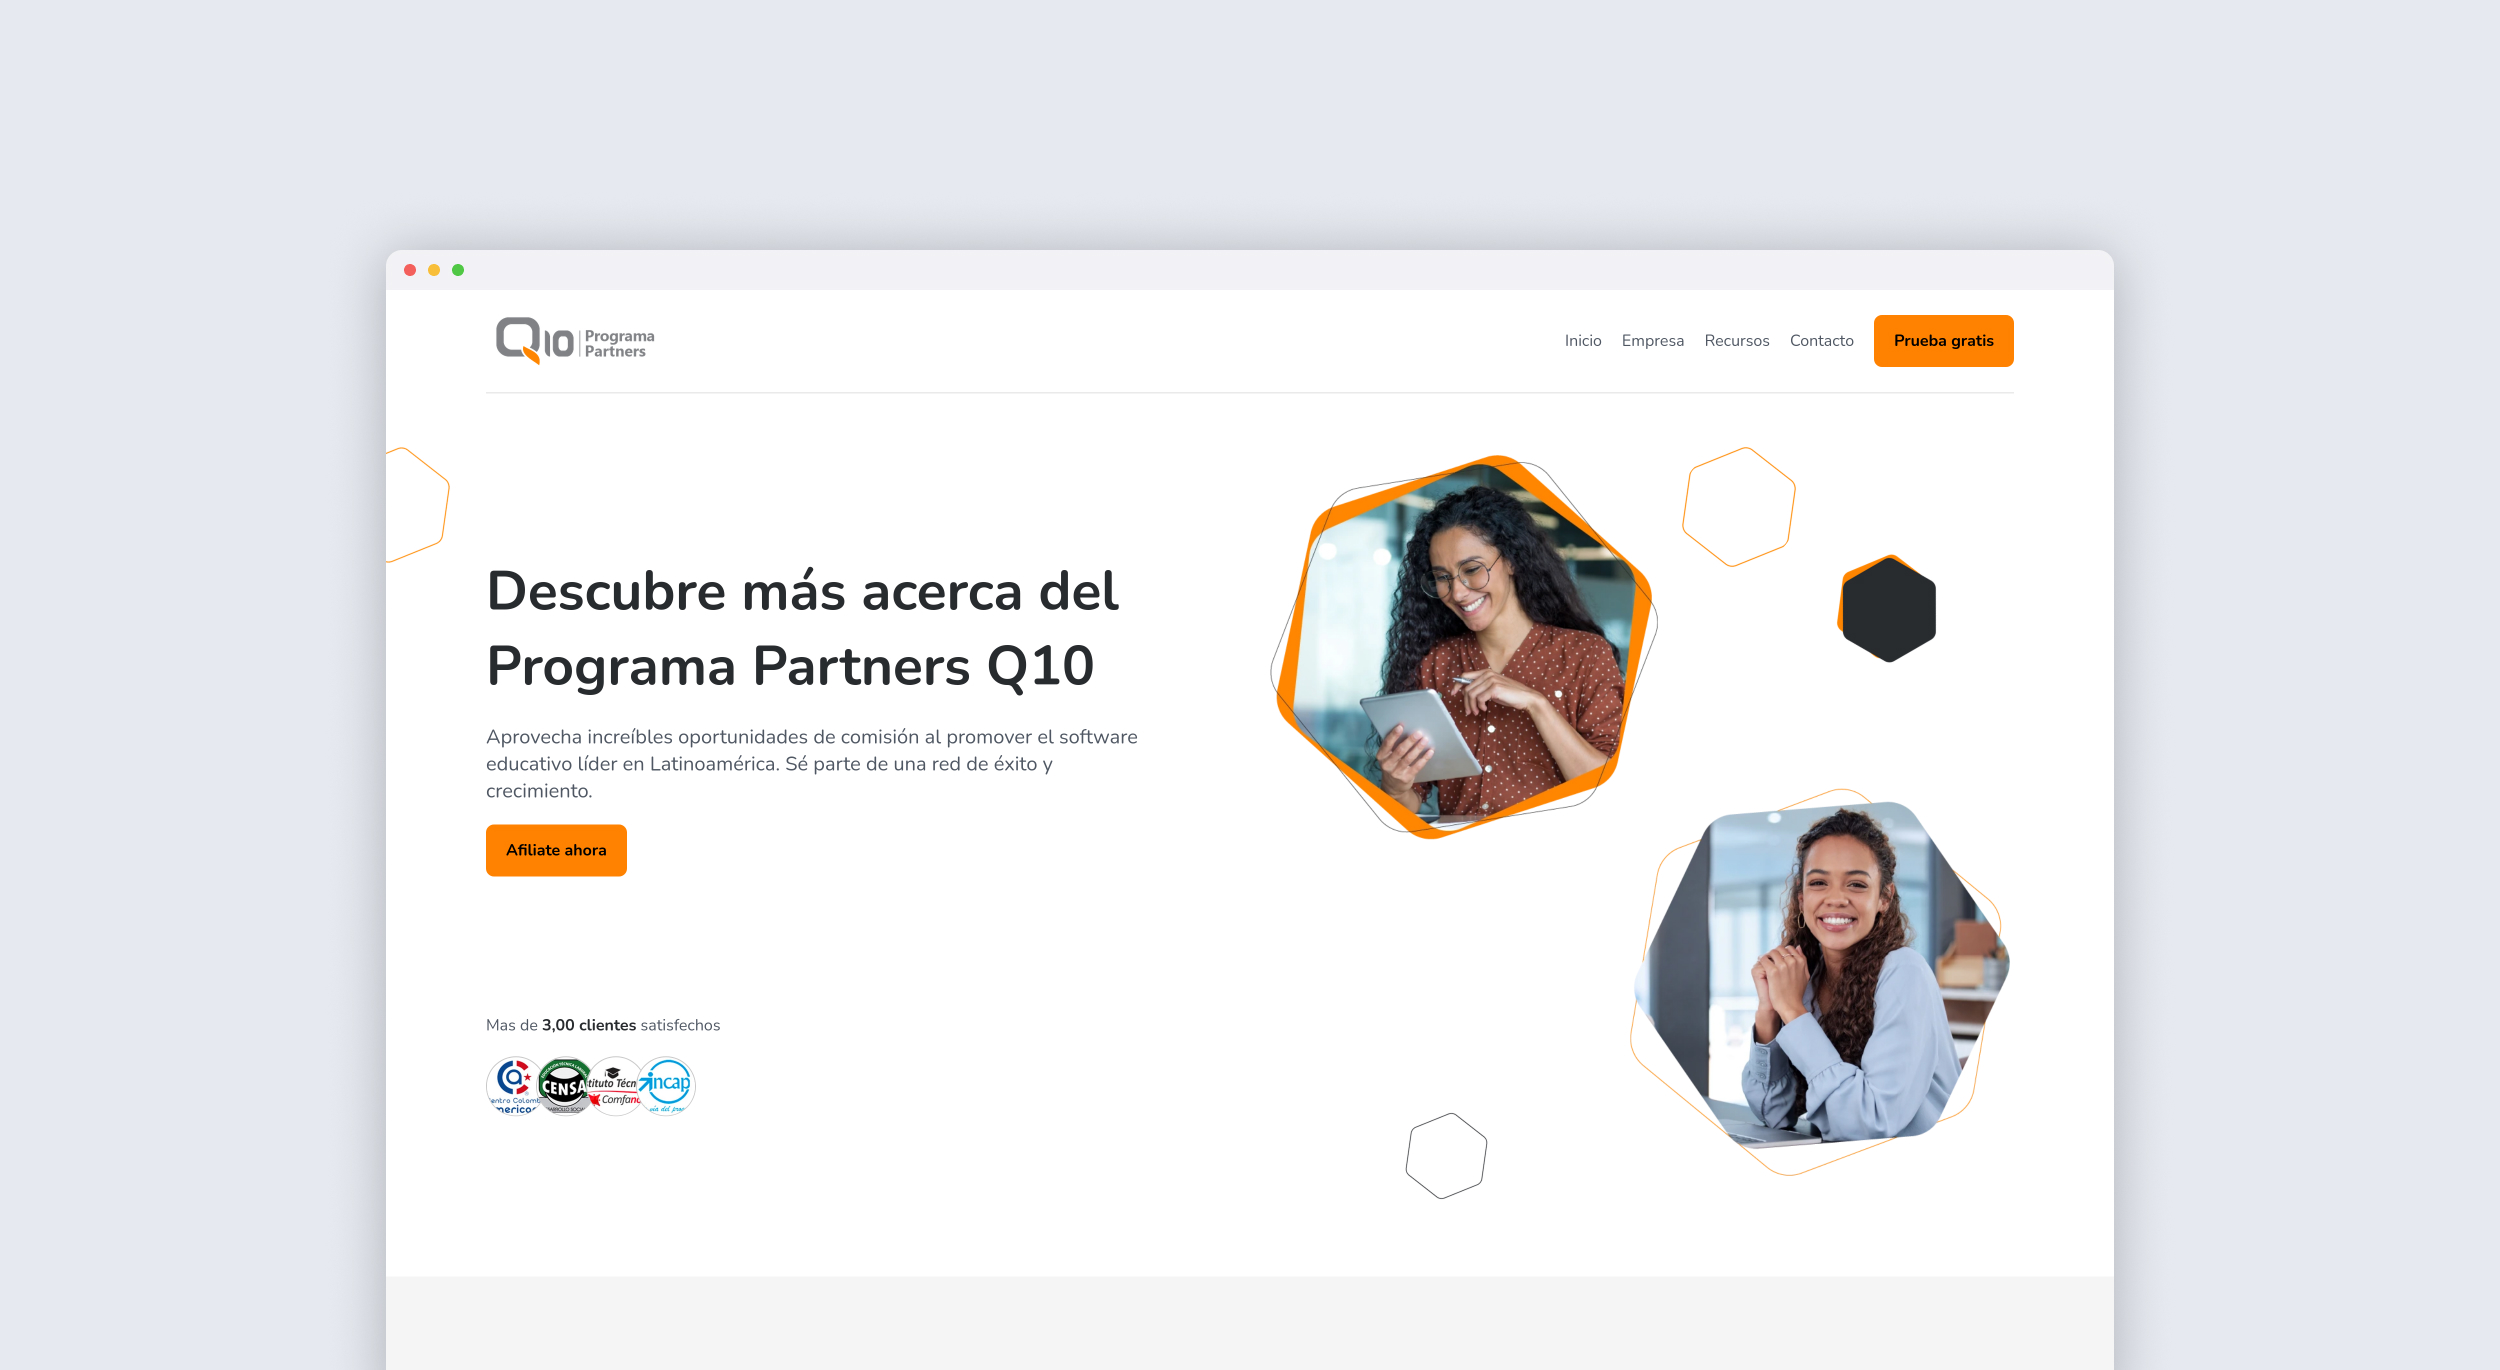
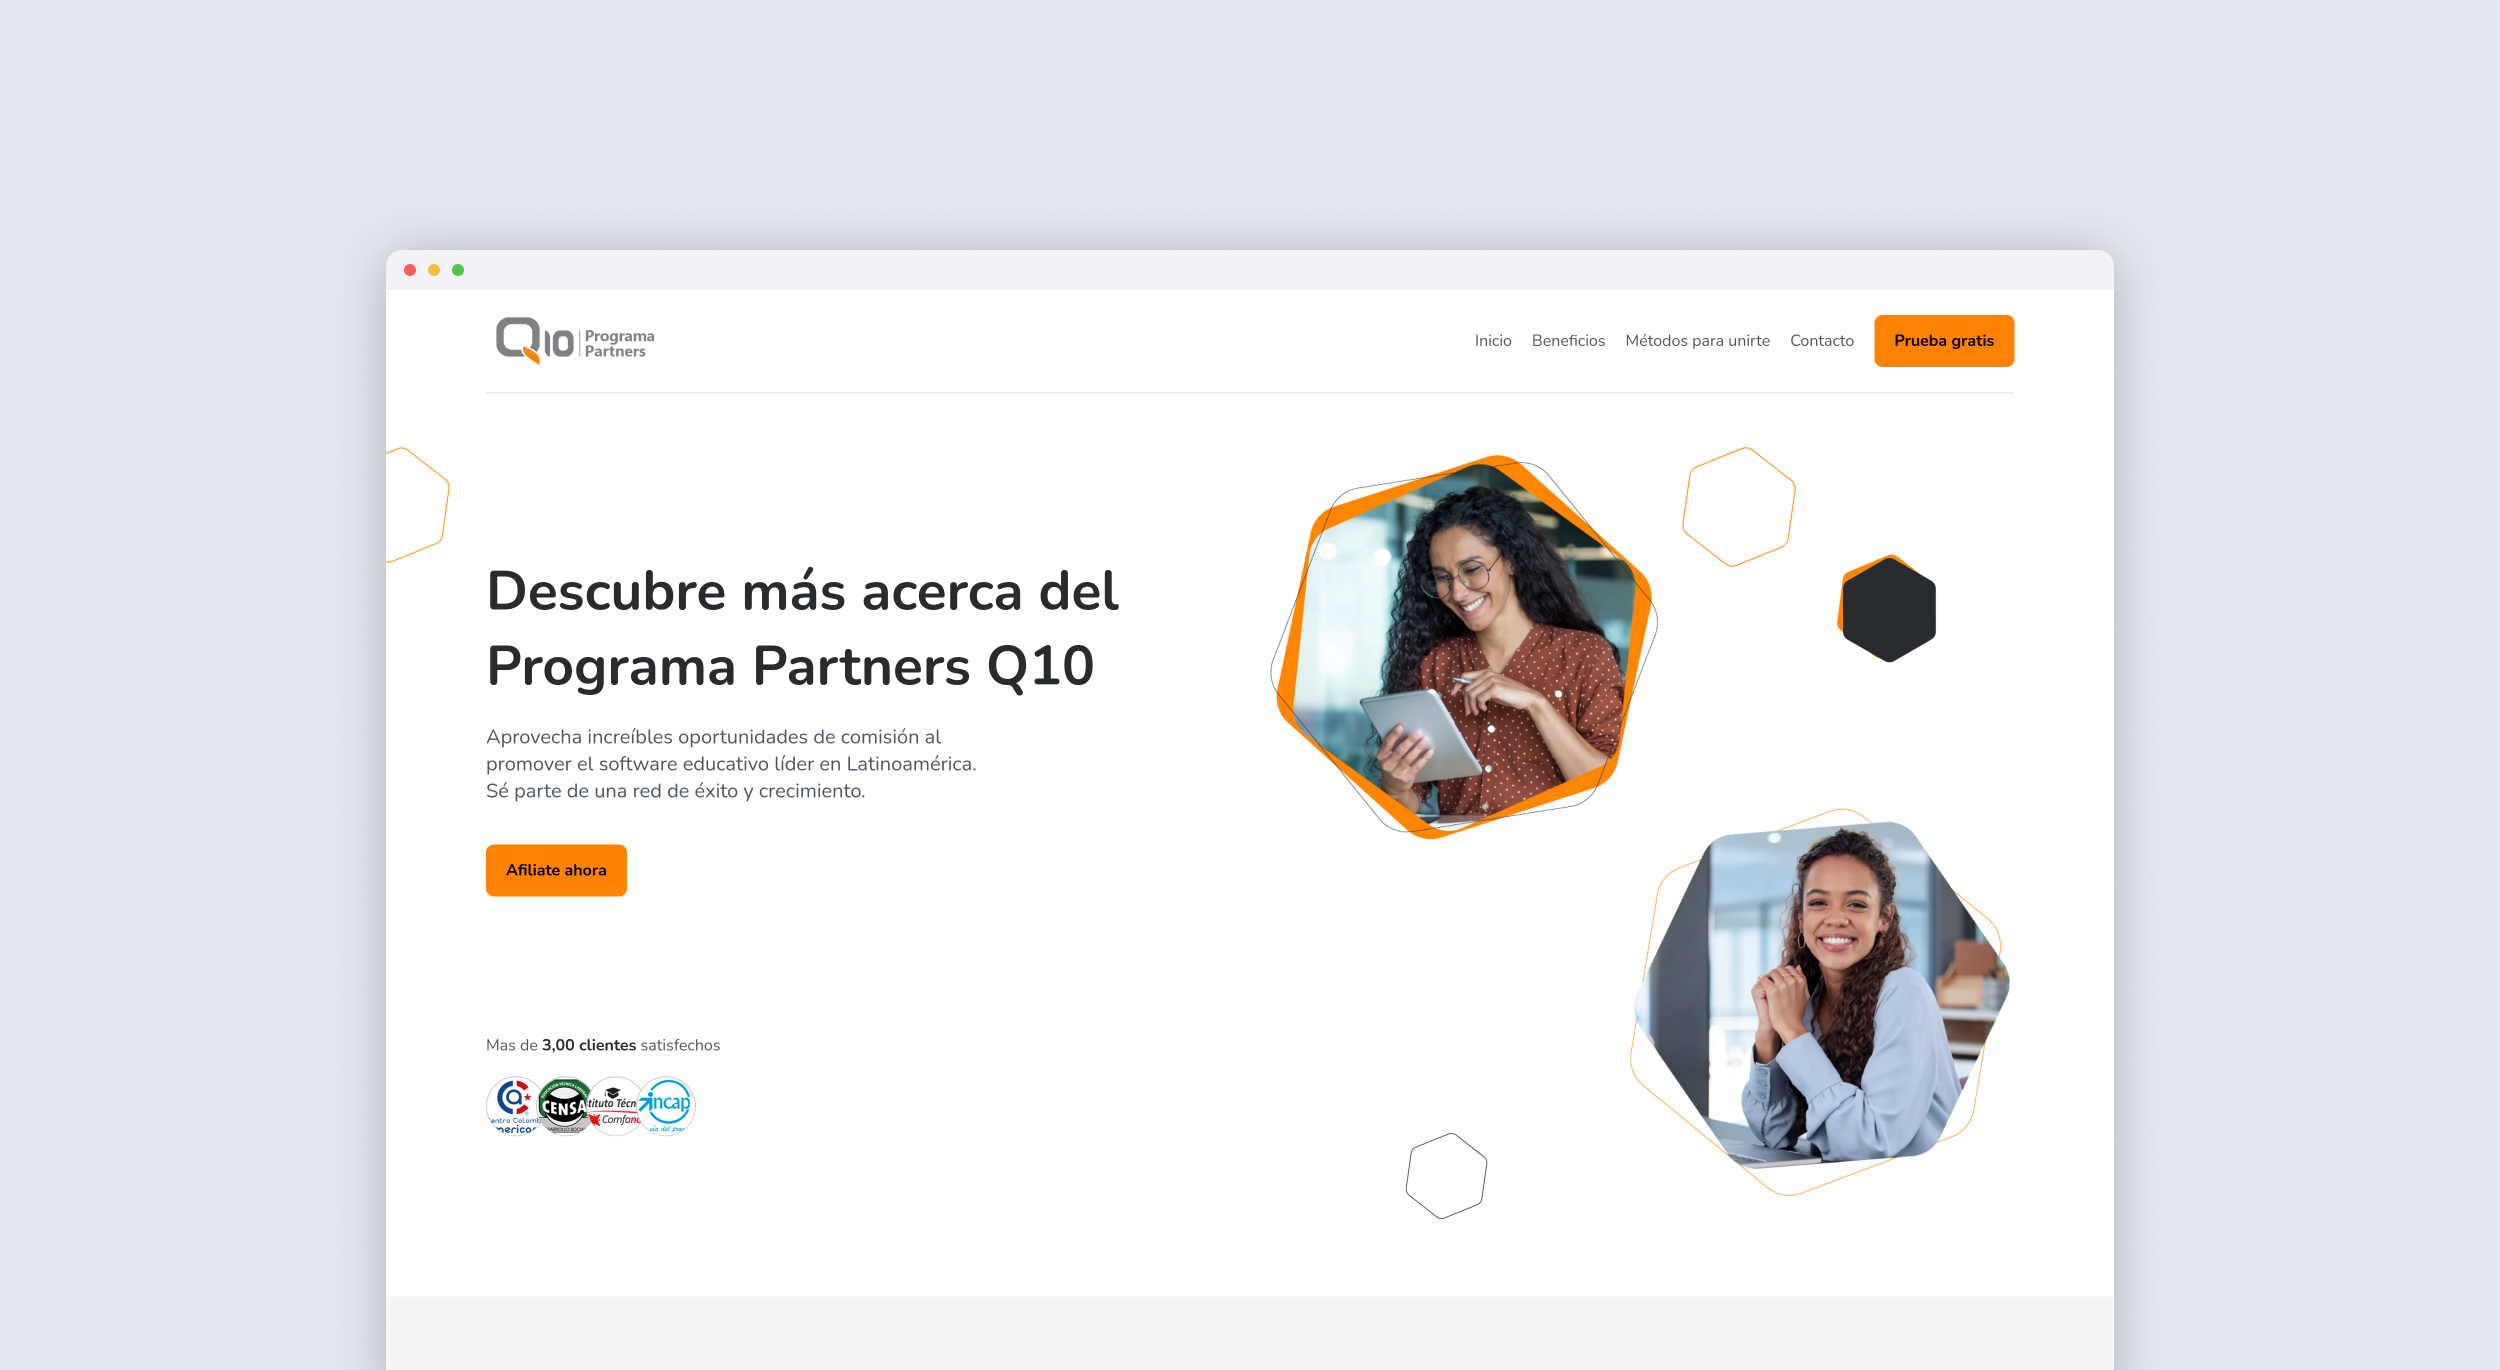
Feat: Added text-wrap: balance to paragraphs for better visual appearance

diff --git a/src/styles/components.css b/src/styles/components.css
@@ -64,6 +64,7 @@
 .card__paragraph {
   font-size: 1.6rem;
   text-align: center;
+  text-wrap: balance;
   color: var(--tertiary-color);
 }
 
@@ -96,6 +97,7 @@
 
 .item__paragraph {
   font-size: 1.6rem;
+  text-wrap: balance;
   color: var(--tertiary-color);
 }
 
@@ -136,6 +138,7 @@
 
 .card-methods__paragraph {
   font-size: 1.8rem;
+  text-wrap: balance;
   color: var(--tertiary-color);
 }
 
@@ -154,6 +157,7 @@
   align-items: start;
   gap: 10px;
   font-size: 1.6rem;
+  text-wrap: balance;
   color: var(--tertiary-color);
 }
 
@@ -291,6 +295,7 @@
 
 .section__paragraph {
   font-size: 1.6rem;
+  text-wrap: balance;
   color: var(--tertiary-color);
 }
 

diff --git a/src/styles/sections.css b/src/styles/sections.css
@@ -48,7 +48,12 @@
 
 .section-home__paragraph {
   font-size: 1.6rem;
+  text-wrap: balance;
   color: var(--tertiary-color);
+}
+
+.section-home .button {
+  margin-top: 20px;
 }
 
 .section-home__images {
